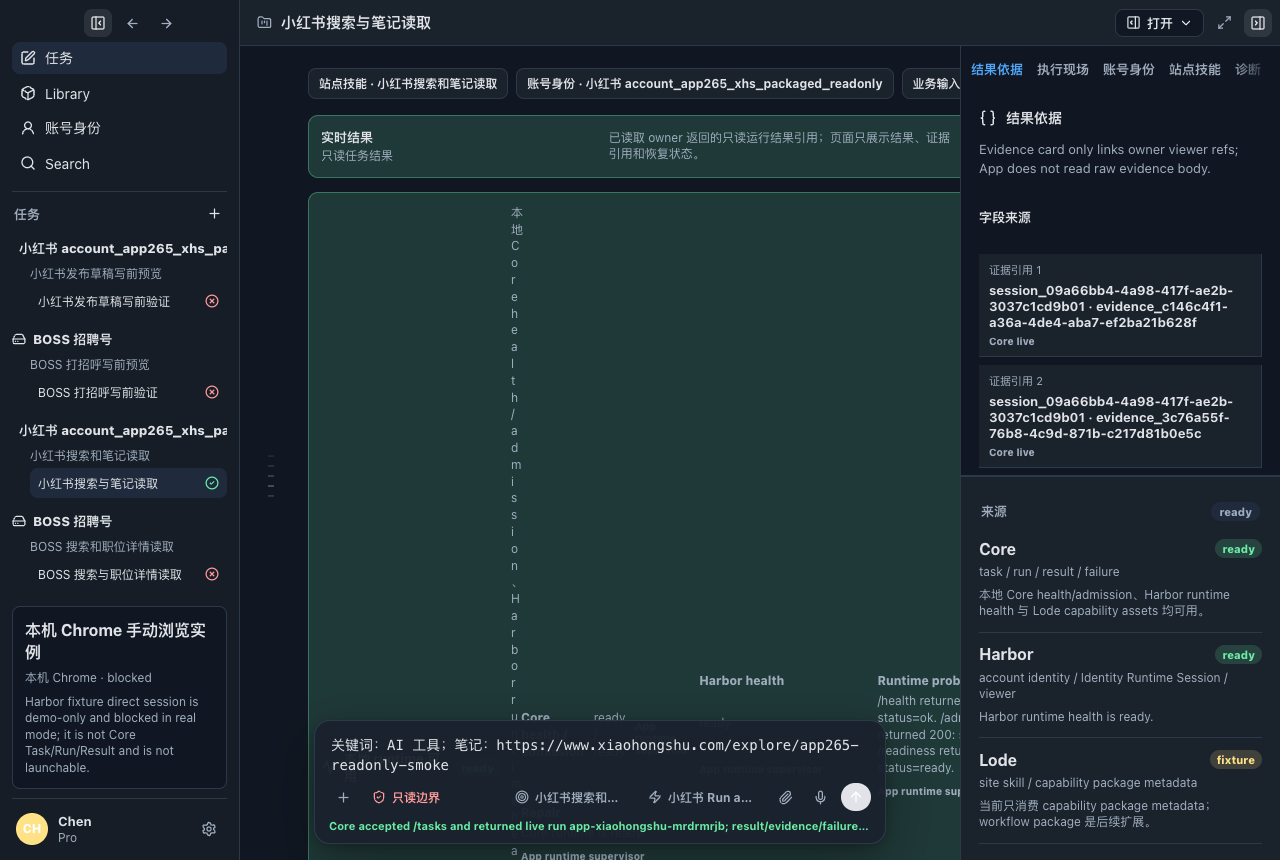
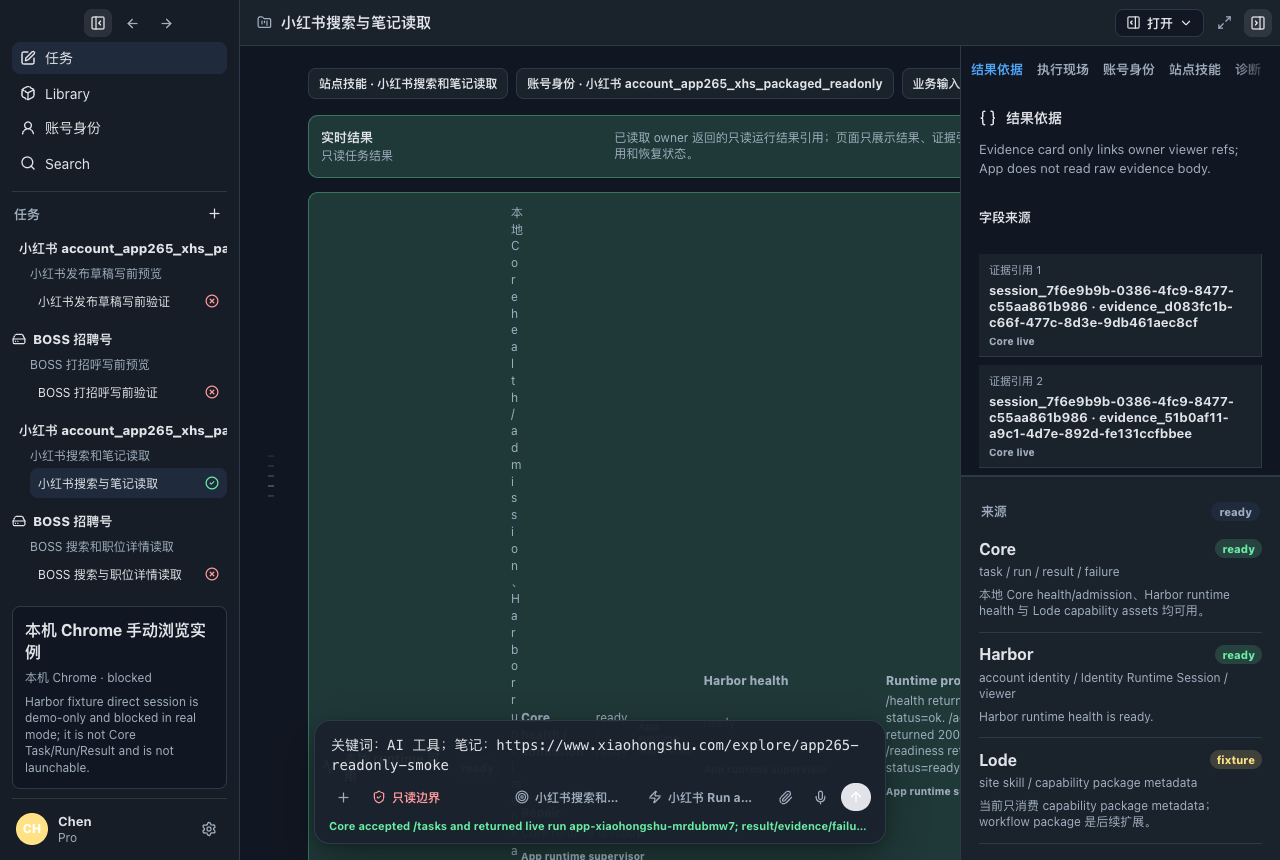
fix(app): 接入 Harbor managed identity 会话合同
将身份创建和启动会话改为通过 Harbor owner API ref，避免 App local-only 或 fixture 身份被当作真实可用。

补充 smoke 覆盖本地/fixture/Chrome fallback fail-closed，并刷新 APP-265 carrier、review 和 packaged smoke evidence。

本提交只提供本地合同和 packaged runtime smoke 证据，不声明小红书/BOSS live E2E 已完成。

diff --git a/src/renderer/harborIdentityClient.ts b/src/renderer/harborIdentityClient.ts
@@ -1,10 +1,11 @@
-import { identityInputFromProjection, projectHarborIdentity, projectHarborSession, projectLocalDraft } from "./harborIdentityProjection";
+import { projectHarborIdentity, projectHarborSession, projectLocalDraft } from "./harborIdentityProjection";
 import {
   type HarborIdentityFacts,
   type HarborIdentityLoadState,
   type HarborProviderCatalog,
   type HarborRuntimeSession,
   type LocalIdentityEnvironmentDraft,
+  type SiteId,
   isHarborIdentityFacts,
   isProviderCatalog,
   isRecord,
@@ -55,17 +56,39 @@ export async function openHarborIdentitySession(
   identity: IdentityEnvironmentProjection,
   target: BrowserTargetProjection,
 ) {
+  if (identity.source !== "Harbor live") {
+    return {
+      status: "unavailable" as const,
+      message: "只有 Harbor live identity environment 可以启动真实身份浏览器；App local/fixture identity 必须先注册并由 Harbor 回读。",
+      retryable: true,
+    };
+  }
   return postHarborSession(harborEndpoint, [
     "/runtime/identity-environment-sessions",
     "/runtime/sessions/identity-environment",
     "/identity-environment-sessions",
   ], {
-    identity_environment: identityInputFromProjection(identity),
+    identity_environment_ref: identity.identityEnvironmentRef,
     url: target.defaultUrl,
+    headless: false,
     control_owner: "user",
     holder_ref: "app-browser-page",
     reuse_existing: true,
   });
+}
+
+export async function createHarborIdentityEnvironment(harborEndpoint: string, draft: LocalIdentityEnvironmentDraft) {
+  const result = await postFirstJson<unknown>(
+    harborEndpoint,
+    ["/runtime/identity-environments", "/identity-environments"],
+    identityInputFromDraft(draft),
+    "Harbor endpoint 未接受 identity environment 创建请求。",
+  );
+  if (!result.ok) return result;
+  const createdRef = identityEnvironmentRefFromCreateResponse(result.value);
+  return createdRef === draft.identityEnvironmentRef
+    ? { ok: true as const }
+    : { ok: false as const, error: "Harbor 创建响应未回传匹配的 identity_environment_ref；保持 App local-only 草稿。" };
 }
 
 export async function lockHarborSession(harborEndpoint: string, sessionRef: string) {
@@ -98,7 +121,12 @@ async function fetchFirstJson<T>(base: string, paths: string[]) {
   return { ok: false as const, error: `无法读取 ${base}` };
 }
 
-async function postFirstJson<T>(base: string, paths: string[], body: unknown) {
+async function postFirstJson<T>(
+  base: string,
+  paths: string[],
+  body: unknown,
+  fallbackError = "Harbor endpoint 未接受会话请求。",
+) {
   for (const path of paths) {
     const result = await requestJson<T>(base, path, {
       method: "POST",
@@ -106,7 +134,7 @@ async function postFirstJson<T>(base: string, paths: string[], body: unknown) {
     });
     if (result.ok) return result;
   }
-  return { ok: false as const, error: "Harbor endpoint 未接受会话请求。" };
+  return { ok: false as const, error: fallbackError };
 }
 
 async function requestJson<T>(base: string, path: string, init: RequestInit) {
@@ -141,6 +169,47 @@ function parseIdentityList(value: unknown, catalog: HarborProviderCatalog | null
     const publicFacts = identityFactsFromPublicRecord(item, catalog);
     return publicFacts ? [publicFacts] : [];
   });
+}
+
+function identityInputFromDraft(draft: LocalIdentityEnvironmentDraft) {
+  return {
+    identity_environment_ref: draft.identityEnvironmentRef,
+    execution_identity_ref: draft.executionIdentityRef,
+    profile_ref: draft.profileRef,
+    profile_storage_ref: draft.profileStorageRef,
+    site: {
+      site_id: draft.siteId,
+      origin: siteOrigin(draft.siteId),
+      display_name: draft.siteId === "boss" ? "BOSS" : "小红书",
+      account_identifier: draft.accountLabel,
+    },
+    login_state: draft.loginState,
+    storage_state: draft.profileStorageRef ? "present" : "unknown",
+    credential_ref: draft.credentialRef || undefined,
+    proxy_ref: draft.proxyRef || undefined,
+    proxy_label: draft.proxyLabel,
+    region: draft.region,
+    language: draft.language,
+    timezone: draft.timezone,
+    browser_family: draft.requestedProviderId,
+    requested_provider_id: draft.requestedProviderId,
+    user_agent_summary: draft.userAgentSummary,
+    viewport: draft.viewport,
+    fingerprint_summary: draft.fingerprintSummary,
+    login_method: "manual",
+    manual_authentication_state: draft.manualAuthenticationState,
+    human_verification: draft.manualAuthenticationState === "not_required" ? [] : ["manual_login"],
+  };
+}
+
+function identityEnvironmentRefFromCreateResponse(value: unknown): string | undefined {
+  const record = recordValue(value);
+  const nested = recordValue(record?.identity_environment);
+  return stringValue(record?.identity_environment_ref) ?? stringValue(nested?.identity_environment_ref);
+}
+
+function siteOrigin(siteId: SiteId) {
+  return siteId === "boss" ? "https://www.zhipin.com" : "https://www.xiaohongshu.com";
 }
 
 function sessionPaths(sessionRef: string, action: "lock" | "release" | "stop") {

diff --git a/src/renderer/IdentityEnvironmentsPage.tsx b/src/renderer/IdentityEnvironmentsPage.tsx
@@ -16,6 +16,7 @@ import {
   type IdentityManagementMode,
 } from "./IdentityEnvironmentManagementPanel";
 import {
+  createHarborIdentityEnvironment,
   fetchHarborIdentityState,
   lockHarborSession,
   openHarborIdentitySession,
@@ -159,23 +160,38 @@ export function IdentityEnvironmentsPage({
     setManagementMessage(message);
   }
 
-  function createIdentity(event: FormEvent<HTMLFormElement>) {
-    event.preventDefault();
-    saveDraft(
-      createLocalIdentityEnvironmentDraft(Object.fromEntries(new FormData(event.currentTarget))),
-      "已保存 App 本地允许配置；真实 provider/session 状态仍需 Harbor 回读。",
-    );
-    event.currentTarget.reset();
+  async function registerDraftWithHarbor(draft: ReturnType<typeof createLocalIdentityEnvironmentDraft>, fallbackMessage: string) {
+    setManagementMessage("正在写入 Harbor identity environment owner API。");
+    const result = await createHarborIdentityEnvironment(harborEndpoint, draft);
+    if (!result.ok) {
+      saveDraft(draft, `${fallbackMessage} ${result.error} 已保存为 App local-only 草稿；不能启动真实身份浏览器或提交真实 Core task。`);
+      return;
+    }
+
+    removeLocalIdentityEnvironmentDraft(draft.id);
+    setLocalDrafts(loadLocalIdentityEnvironmentDrafts());
+    selectIdentity(draft.identityEnvironmentRef);
+    setManagementMode("closed");
+    setManagementMessage("已写入 Harbor identity environment owner API；App localStorage 未保存 Cookie、token、profile 原始内容或 raw evidence。");
+    await refreshHarborState();
   }
 
-  function importIdentity() {
+  async function createIdentity(event: FormEvent<HTMLFormElement>) {
+    event.preventDefault();
+    const form = event.currentTarget;
+    const draft = createLocalIdentityEnvironmentDraft(Object.fromEntries(new FormData(form)));
+    form.reset();
+    await registerDraftWithHarbor(draft, "Harbor 暂未接受创建请求。");
+  }
+
+  async function importIdentity() {
     const parsed = parseImportedIdentityEnvironment(importText);
     if (!parsed.ok) {
       setManagementMessage(parsed.error);
       return;
     }
-    saveDraft(parsed.draft, "已导入 Harbor public summary；敏感材料未写入 App localStorage。");
     setImportText("");
+    await registerDraftWithHarbor(parsed.draft, "Harbor 暂未接受导入请求。");
   }
 
   function deleteSelectedIdentity() {

diff --git a/.loom/status/current.md b/.loom/status/current.md
@@ -4,26 +4,26 @@
 
 - Item ID: APP-265
 - Goal: Repair the App/Core/Harbor runtime admission contract so the packaged App can supervise local owner runtimes, detect real browser providers, and submit a read-only Core task that returns run/result/evidence/session refs instead of fixture/UI projection.
-- Scope: App #265 current live-safe readonly batch makes the App submit path usable from the desktop shell without promoting fixture/demo state to live availability. This lane keeps packaged Core/Harbor runtime supervision intact, lets the user edit same-origin Xiaohongshu readonly business input, opens the Library readonly task entry once the local runtime gate is ready, marks matching Harbor live identity source in the Task context, and adds packaged Electron smoke coverage for App -> Core `/tasks` -> run/result/evidence/session refs. Ownership constraints are limited to App renderer submit/navigation state, packaged smoke hooks/scripts, screenshot artifacts, and APP-265 Loom carriers; Core, Harbor, Lode, raw credentials, raw evidence, browser profile storage, and external visible actions are forbidden.
-- Execution Path: work/app-265-real-packaged-readonly-smoke
+- Scope: App #265 current live-safe readonly batch makes the App submit path usable from the desktop shell without promoting fixture/demo state to live availability. This lane keeps packaged Core/Harbor runtime supervision intact, lets the user edit same-origin Xiaohongshu readonly business input, opens the Library readonly task entry once the local runtime gate is ready, marks matching Harbor live identity source in the Task context, routes managed identity create/session requests through Harbor owner API refs, and adds packaged Electron smoke coverage for App -> Core `/tasks` -> run/result/evidence/session refs. Ownership constraints are limited to App renderer submit/navigation/identity client state, packaged smoke hooks/scripts, screenshot artifacts, and APP-265 Loom carriers; Core, Harbor, Lode, raw credentials, raw evidence, browser profile storage, and external visible actions are forbidden.
+- Execution Path: work/app-265-real-e2e-final
 - Workspace Entry: .
 - Recovery Entry: .loom/progress/APP-265.md
 - Review Entry: .loom/reviews/APP-265.json
 - Validation Entry: npm run typecheck; npm run smoke; npm run smoke:packaged; npm run smoke:packaged:readonly; npm run smoke:packaged:runtime; npm run smoke:packaged:vertical; git diff --check; loom status --target . --json; loom fact-chain --target . --json; loom suite carrier validate --target . --item APP-265 --json; loom suite evidence validate --target . --item APP-265 --json
 - Closing Condition: PR Ready for the App-only live-safe readonly submit slice after validation proves editable same-origin business input flows through Core `/tasks`, returned owner-shaped run/result/evidence/session refs render in the packaged App, existing packaged runtime/preflight smoke remains green, and no fixture/demo result is promoted to live.
-- Current Checkpoint: merge
-- Current Stop: Branch `work/app-265-real-packaged-readonly-smoke` is open as PR #273 at head `9e09efd9c9a71b773d5aca2e44190f4f8092d02a`. It corrects the packaged readonly smoke to use packaged Core/Harbor runtime processes, seed Harbor public identity facts, submit a readonly Xiaohongshu task through App UI to Core `/tasks`, and render Core run/session/evidence refs. This is fixture-bound owner-shaped contract evidence only; it does not close App #265 or App #14 user stories.
-- Next Step: Rerun hosted `loom-pr-merge-gate` for PR #273 after this current-head review carrier sync, then controlled merge only if hosted checks are clean. Do not close App #265 until user-authorized real App E2E evidence exists.
-- Blockers: None
-- Latest Validation Summary: 2026-07-09T17:18Z UTC local validation passed for PR #273 branch `work/app-265-real-packaged-readonly-smoke` at head `9e09efd9c9a71b773d5aca2e44190f4f8092d02a`: `npm run typecheck`, `WEBENVOY_CORE_RUNTIME_SOURCE_DIR=/Volumes/2T/dev/WebEnvoy/WebEnvoy.worktrees/core-244-harbor-site-facts-run WEBENVOY_HARBOR_RUNTIME_SOURCE_DIR=/Volumes/2T/dev/WebEnvoy/Harbor.worktrees/harbor-218-fixture-site-facts npm run smoke:packaged:readonly`, `WEBENVOY_CORE_RUNTIME_SOURCE_DIR=/Volumes/2T/dev/WebEnvoy/WebEnvoy.worktrees/core-244-harbor-site-facts-run WEBENVOY_HARBOR_RUNTIME_SOURCE_DIR=/Volumes/2T/dev/WebEnvoy/Harbor.worktrees/harbor-218-fixture-site-facts npm run smoke:packaged:runtime`, and `git diff --check`. Evidence boundary: packaged App launched local Core/Harbor runtime processes, seeded Harbor public identity facts through the Harbor API, submitted a readonly Xiaohongshu task from the App UI to Core `/tasks`, and rendered Core run/session/evidence refs under the Harbor fixture launcher only. This is owner-shaped contract evidence, not live-site evidence; no real Xiaohongshu/BOSS account, browser profile, Cookie, production page action, submit, publish, send, hosted browser, marketplace, bulk collection, full account cloud hosting, or risk-control bypass occurred.
-- Recovery Boundary: Revert branch `work/app-265-real-packaged-readonly-smoke`; no real account/profile/Cookie/production page action, submit, publish, send, save, hosted browser, marketplace, bulk collection, or risk-bypass action occurred.
-- Current Lane: App #265 packaged readonly smoke current-head carrier sync for PR #273.
+- Current Checkpoint: build
+- Current Stop: Branch `work/app-265-real-e2e-final` contains the App side of the APP-265 managed identity/session correction: App creates Harbor managed identity environments through the owner API, opens manual browser sessions only with `identity_environment_ref` plus `headless:false`/`control_owner:user`, keeps App local-only and fixture identities fail-closed, and records smoke coverage for create/session/submit negative cases. This is local contract and packaged runtime evidence only; it does not close App #265 or App #14 live user stories.
+- Next Step: Commit, push, and open the APP-265 PR with PR body listing covered and non-covered user stories. Do not close App #265 until user-authorized real App E2E evidence exists.
+- Blockers: Pre-commit Loom purity only until this scoped diff is committed; no product-scope blocker in the local contract evidence.
+- Latest Validation Summary: 2026-07-09T18:29Z UTC local validation passed on branch `work/app-265-real-e2e-final` before commit: `npm run smoke`, `WEBENVOY_HARBOR_RUNTIME_SOURCE_DIR=/Volumes/2T/dev/WebEnvoy/Harbor.worktrees/harbor-219-persistent-profile-session npm run smoke:packaged:runtime`, `WEBENVOY_HARBOR_RUNTIME_SOURCE_DIR=/Volumes/2T/dev/WebEnvoy/Harbor.worktrees/harbor-219-persistent-profile-session npm run smoke:packaged:readonly`, `git diff --check`, `loom fact-chain --target . --json`, `loom suite carrier validate --target . --item APP-265 --json`, and `loom suite evidence validate --target . --item APP-265 --json`. Evidence boundary: packaged App launched local Core/Harbor runtime processes, used the Harbor owner API contract for managed identity/session requests, kept local/fixture/Chrome restricted fallback submit paths fail-closed, submitted a readonly Xiaohongshu task through App UI to Core `/tasks`, and rendered Core/Harbor refs under the Harbor fixture launcher only. This is owner-shaped contract evidence, not live-site evidence; no real Xiaohongshu/BOSS account, browser profile, Cookie, production page action, submit, publish, send, hosted browser, marketplace, bulk collection, full account cloud hosting, or risk-control bypass occurred.
+- Recovery Boundary: Revert branch `work/app-265-real-e2e-final`; no real account/profile/Cookie/production page action, submit, publish, send, save, hosted browser, marketplace, bulk collection, or risk-bypass action occurred.
+- Current Lane: App #265 managed identity/session contract and packaged readonly smoke correction.
 
 ## Runtime Evidence
 
 - Run Entry: artifacts/app-265-packaged-readonly-smoke.png
-- Logs Entry: scripts/smoke-packaged-readonly.mjs
-- Diagnostics Entry: src/electron/main.ts; src/renderer/App.tsx; src/renderer/coreTaskSubmitClient.ts
+- Logs Entry: scripts/smoke.mjs; scripts/smoke-packaged-readonly.mjs; scripts/smoke-packaged-runtime.mjs
+- Diagnostics Entry: src/renderer/harborIdentityClient.ts; src/renderer/IdentityEnvironmentsPage.tsx; scripts/smoke.mjs
 - Verification Entry: .loom/progress/APP-265.md
 - Lane Entry: .loom/specs/APP-265/plan.md
 

diff --git a/.loom/progress/APP-265.md b/.loom/progress/APP-265.md
@@ -3,13 +3,13 @@
 ## Dynamic Facts
 
 - Item ID: APP-265
-- Current Checkpoint: merge
-- Current Stop: Branch `work/app-265-real-packaged-readonly-smoke` is open as PR #273 at head `9e09efd9c9a71b773d5aca2e44190f4f8092d02a`. It corrects the packaged readonly smoke to use packaged Core/Harbor runtime processes, seed Harbor public identity facts, submit a readonly Xiaohongshu task through App UI to Core `/tasks`, and render Core run/session/evidence refs. This is fixture-bound owner-shaped contract evidence only; it does not close App #265 or App #14 user stories.
-- Next Step: Rerun hosted `loom-pr-merge-gate` for PR #273 after this current-head review carrier sync, then controlled merge only if hosted checks are clean. Do not close App #265 until user-authorized real App E2E evidence exists.
-- Blockers: None
-- Latest Validation Summary: 2026-07-09T17:18Z UTC local validation passed for PR #273 branch `work/app-265-real-packaged-readonly-smoke` at head `9e09efd9c9a71b773d5aca2e44190f4f8092d02a`: `npm run typecheck`, `WEBENVOY_CORE_RUNTIME_SOURCE_DIR=/Volumes/2T/dev/WebEnvoy/WebEnvoy.worktrees/core-244-harbor-site-facts-run WEBENVOY_HARBOR_RUNTIME_SOURCE_DIR=/Volumes/2T/dev/WebEnvoy/Harbor.worktrees/harbor-218-fixture-site-facts npm run smoke:packaged:readonly`, `WEBENVOY_CORE_RUNTIME_SOURCE_DIR=/Volumes/2T/dev/WebEnvoy/WebEnvoy.worktrees/core-244-harbor-site-facts-run WEBENVOY_HARBOR_RUNTIME_SOURCE_DIR=/Volumes/2T/dev/WebEnvoy/Harbor.worktrees/harbor-218-fixture-site-facts npm run smoke:packaged:runtime`, and `git diff --check`. Evidence boundary: packaged App launched local Core/Harbor runtime processes, seeded Harbor public identity facts through the Harbor API, submitted a readonly Xiaohongshu task from the App UI to Core `/tasks`, and rendered Core run/session/evidence refs under the Harbor fixture launcher only. This is owner-shaped contract evidence, not live-site evidence; no real Xiaohongshu/BOSS account, browser profile, Cookie, production page action, submit, publish, send, hosted browser, marketplace, bulk collection, full account cloud hosting, or risk-control bypass occurred.
-- Recovery Boundary: Revert branch `work/app-265-real-packaged-readonly-smoke`; no real account/profile/Cookie/production page action, submit, publish, send, save, hosted browser, marketplace, bulk collection, or risk-bypass action occurred.
-- Current Lane: App #265 packaged readonly smoke current-head carrier sync for PR #273.
+- Current Checkpoint: build
+- Current Stop: Branch `work/app-265-real-e2e-final` contains the App side of the APP-265 managed identity/session correction: App creates Harbor managed identity environments through the owner API, opens manual browser sessions only with `identity_environment_ref` plus `headless:false`/`control_owner:user`, keeps App local-only and fixture identities fail-closed, and records smoke coverage for create/session/submit negative cases. This is local contract and packaged runtime evidence only; it does not close App #265 or App #14 live user stories.
+- Next Step: Commit, push, and open the APP-265 PR with PR body listing covered and non-covered user stories. Do not close App #265 until user-authorized real App E2E evidence exists.
+- Blockers: Pre-commit Loom purity only until this scoped diff is committed; no product-scope blocker in the local contract evidence.
+- Latest Validation Summary: 2026-07-09T18:29Z UTC local validation passed on branch `work/app-265-real-e2e-final` before commit: `npm run smoke`, `WEBENVOY_HARBOR_RUNTIME_SOURCE_DIR=/Volumes/2T/dev/WebEnvoy/Harbor.worktrees/harbor-219-persistent-profile-session npm run smoke:packaged:runtime`, `WEBENVOY_HARBOR_RUNTIME_SOURCE_DIR=/Volumes/2T/dev/WebEnvoy/Harbor.worktrees/harbor-219-persistent-profile-session npm run smoke:packaged:readonly`, `git diff --check`, `loom fact-chain --target . --json`, `loom suite carrier validate --target . --item APP-265 --json`, and `loom suite evidence validate --target . --item APP-265 --json`. Evidence boundary: packaged App launched local Core/Harbor runtime processes, used the Harbor owner API contract for managed identity/session requests, kept local/fixture/Chrome restricted fallback submit paths fail-closed, submitted a readonly Xiaohongshu task through App UI to Core `/tasks`, and rendered Core/Harbor refs under the Harbor fixture launcher only. This is owner-shaped contract evidence, not live-site evidence; no real Xiaohongshu/BOSS account, browser profile, Cookie, production page action, submit, publish, send, hosted browser, marketplace, bulk collection, full account cloud hosting, or risk-control bypass occurred.
+- Recovery Boundary: Revert branch `work/app-265-real-e2e-final`; no real account/profile/Cookie/production page action, submit, publish, send, save, hosted browser, marketplace, bulk collection, or risk-bypass action occurred.
+- Current Lane: App #265 managed identity/session contract and packaged readonly smoke correction.
 
 ## Execution Ledger
 
@@ -23,7 +23,7 @@
 ## Runtime Evidence
 
 - Run Entry: artifacts/app-265-packaged-readonly-smoke.png; artifacts/app-265-packaged-runtime-smoke.png
-- Logs Entry: scripts/smoke-packaged-readonly.mjs; scripts/smoke.mjs
-- Diagnostics Entry: src/electron/main.ts; src/renderer/coreTaskSubmitClient.ts; src/electron/runtimeSupervisor.ts
+- Logs Entry: scripts/smoke.mjs; scripts/smoke-packaged-readonly.mjs; scripts/smoke-packaged-runtime.mjs
+- Diagnostics Entry: src/renderer/harborIdentityClient.ts; src/renderer/IdentityEnvironmentsPage.tsx; scripts/smoke.mjs
 - Verification Entry: .loom/progress/APP-265.md
 - Lane Entry: .loom/specs/APP-265/plan.md

diff --git a/.loom/work-items/APP-265.md b/.loom/work-items/APP-265.md
@@ -4,8 +4,8 @@
 
 - Item ID: APP-265
 - Goal: Repair the App/Core/Harbor runtime admission contract so the packaged App can supervise local owner runtimes, detect real browser providers, and submit a read-only Core task that returns run/result/evidence/session refs instead of fixture/UI projection.
-- Scope: App #265 current live-safe readonly batch makes the App submit path usable from the desktop shell without promoting fixture/demo state to live availability. This lane keeps packaged Core/Harbor runtime supervision intact, lets the user edit same-origin Xiaohongshu readonly business input, opens the Library readonly task entry once the local runtime gate is ready, marks matching Harbor live identity source in the Task context, and adds packaged Electron smoke coverage for App -> Core `/tasks` -> run/result/evidence/session refs. Ownership constraints are limited to App renderer submit/navigation state, packaged smoke hooks/scripts, screenshot artifacts, and APP-265 Loom carriers; Core, Harbor, Lode, raw credentials, raw evidence, browser profile storage, and external visible actions are forbidden.
-- Execution Path: work/app-265-live-readonly-e2e
+- Scope: App #265 current live-safe readonly batch makes the App submit path usable from the desktop shell without promoting fixture/demo state to live availability. This lane keeps packaged Core/Harbor runtime supervision intact, lets the user edit same-origin Xiaohongshu readonly business input, opens the Library readonly task entry once the local runtime gate is ready, marks matching Harbor live identity source in the Task context, routes managed identity create/session requests through Harbor owner API refs, and adds packaged Electron smoke coverage for App -> Core `/tasks` -> run/result/evidence/session refs. Ownership constraints are limited to App renderer submit/navigation/identity client state, packaged smoke hooks/scripts, screenshot artifacts, and APP-265 Loom carriers; Core, Harbor, Lode, raw credentials, raw evidence, browser profile storage, and external visible actions are forbidden.
+- Execution Path: work/app-265-real-e2e-final
 - Workspace Entry: .
 - Recovery Entry: .loom/progress/APP-265.md
 - Review Entry: .loom/reviews/APP-265.json
@@ -17,7 +17,7 @@
 - Parent FR: https://github.com/WebEnvoy/App/issues/256
 - Anchor Work Item: https://github.com/WebEnvoy/App/issues/265
 - Blocked By: https://github.com/WebEnvoy/Harbor/issues/218 and https://github.com/WebEnvoy/WebEnvoy/issues/243
-- Branch: work/app-265-live-readonly-e2e
+- Branch: work/app-265-real-e2e-final
 
 ## Safety Boundary
 
@@ -40,6 +40,8 @@
 - src/renderer/SiteSkillPages.tsx
 - src/renderer/TaskThreadComposer.tsx
 - src/renderer/TaskThreadPage.tsx
+- src/renderer/IdentityEnvironmentsPage.tsx
+- src/renderer/harborIdentityClient.ts
 - src/renderer/taskThreadFixtures.ts
 - scripts/package-runtime-assets.mjs
 - scripts/smoke.mjs

diff --git a/.loom/specs/APP-265/task-carrier.md b/.loom/specs/APP-265/task-carrier.md
@@ -2,4 +2,4 @@
 
 | carrier_type | carrier_locator | source_value | normalized_status | relationship | work_item_locator | breakdown_unit_locator | spec_scenario_locator | plan_phase_locator | validation_strategy_locator | provenance | freshness_rule |
 | --- | --- | --- | --- | --- | --- | --- | --- | --- | --- | --- | --- |
-| github_issue | https://github.com/WebEnvoy/App/issues/265 | APP-265 repairs App/Core/Harbor runtime admission contract and anchors the real App E2E gate batch | in_progress | primary | .loom/work-items/APP-265.md | .loom/specs/APP-265/implementation-contract.md | .loom/specs/APP-265/spec.md#acceptance-criteria | .loom/specs/APP-265/plan.md#phase-6 | .loom/specs/APP-265/evidence-map.md | Refreshed for branch `work/app-265-live-readonly-e2e` and local validation at 2026-07-09T15:46Z UTC. | Recheck after issue state change, branch/head change, Harbor/Core contract change, validation run, PR creation, or App E2E evidence update. |
+| github_issue | https://github.com/WebEnvoy/App/issues/265 | APP-265 repairs App/Core/Harbor runtime admission contract and anchors the real App E2E gate batch | in_progress | primary | .loom/work-items/APP-265.md | .loom/specs/APP-265/implementation-contract.md | .loom/specs/APP-265/spec.md#acceptance-criteria | .loom/specs/APP-265/plan.md#phase-6 | .loom/specs/APP-265/evidence-map.md | Refreshed for branch `work/app-265-real-e2e-final` and local validation at 2026-07-09T18:29Z UTC; current lane covers managed Harbor identity create/session contract and packaged readonly smoke correction only. | Recheck after issue state change, branch/head change, Harbor/Core contract change, validation run, PR creation, or App E2E evidence update. |